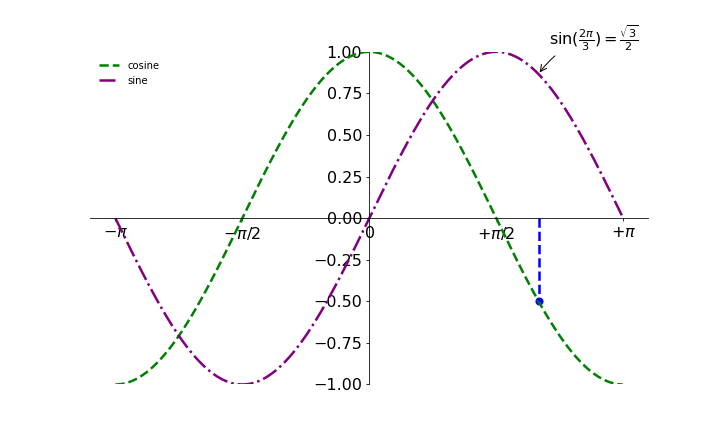
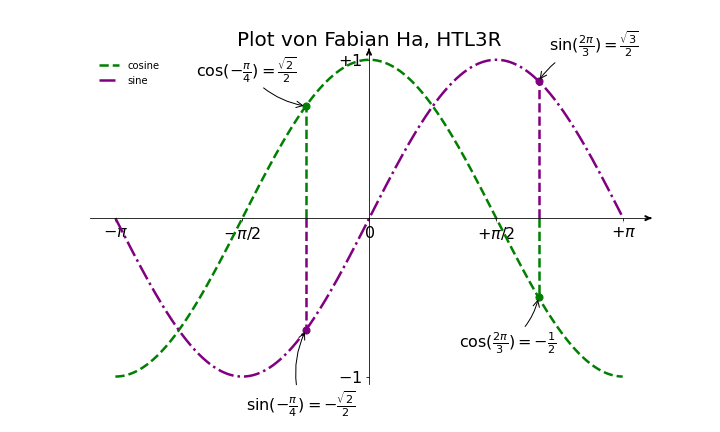
Aufgabe 1: Erzeugung des Plots

diff --git a/03_Plots/plot1.py b/03_Plots/plot1.py
@@ -5,20 +5,22 @@ import matplotlib.pyplot as plt
 
 PI = math.pi
 CNT = 1024
-X = sorted([ (-PI / (CNT / 2)) * i if i <= CNT / 2 else (PI / (CNT / 2)) * (CNT-i) for i in range(1024)])
-C = [ math.cos(x) for x in X ]
-S = [ math.sin(x) for x in X ]
+X = sorted([(-PI / (CNT / 2)) * i if i <= CNT / 2 else (PI / (CNT / 2)) * (CNT - i) for i in range(1024)])
+C = [math.cos(x) for x in X]
+S = [math.sin(x) for x in X]
 
 plt.plot(X, C)
 plt.plot(X, S)
 
-plt.figure(figsize=(10,6), dpi=80)
+plt.figure(figsize=(10, 6), dpi=80)
 plt.plot(X, C, color="green", linewidth=2.5, linestyle="--", label="cosine")
 plt.plot(X, S, color="purple", linewidth=2.5, linestyle="-.", label="sine")
 plt.xlim(min(X) * 1.1, max(X) * 1.1)
-plt.ylim(-1, 1)
-plt.xticks([-PI, -PI/2, 0, PI/2, PI],
-       [r'$-\pi$', r'$-\pi/2$', r'$0$', r'$+\pi/2$', r'$+\pi$'])
+plt.ylim(-1.05, 1.05)
+plt.xticks([-PI, -PI / 2, 0, PI / 2, PI],
+           [r'$-\pi$', r'$-\pi/2$', r'$0$', r'$+\pi/2$', r'$+\pi$'])
+plt.yticks([-1, 1],
+           [r'$-1$', r'$+1$'])
 plt.legend(loc='upper left', frameon=False)
 
 ax = plt.gca()
@@ -28,21 +30,55 @@ ax.xaxis.set_ticks_position('bottom')
 ax.spines['bottom'].set_position(('data', 0))
 ax.yaxis.set_ticks_position('left')
 ax.spines['left'].set_position(('data', 0))
+ax.annotate(
+    '', xy=(1.01, 0.5), xytext=(1, 0.5),
+    xycoords='axes fraction',
+    arrowprops=dict(arrowstyle='->', lw=2, color='k')
+)
+
+ax.annotate(
+    '', xy=(0.5, 1.01), xytext=(0.5, 1),
+    xycoords='axes fraction',
+    arrowprops=dict(arrowstyle='->', lw=2, color='k')
+)
 
 t = 2 * PI / 3
-plt.plot([t, t], [0, math.cos(t)], color='blue', linewidth=2.5, linestyle="--")
-plt.scatter([t, ], [math.cos(t), ], 50, color='blue')
+plt.plot([t, t], [0, math.cos(t)], color='green', linewidth=2.5, linestyle="--")
+plt.scatter([t, ], [math.cos(t), ], 50, color='green')
+plt.annotate(r'$\cos(\frac{2\pi}{3})=-\frac{1}{2}$',
+             xy=(t, math.cos(t)), xycoords='data',
+             xytext=(-80, -50), textcoords='offset points', fontsize=16,
+             arrowprops=dict(arrowstyle="->", connectionstyle="arc3,rad=.2"))
 
+plt.plot([t, t], [0, math.sin(t)], color='purple', linewidth=2.5, linestyle="--")
+plt.scatter([t, ], [math.sin(t), ], 50, color='purple')
 plt.annotate(r'$\sin(\frac{2\pi}{3})=\frac{\sqrt{3}}{2}$',
              xy=(t, math.sin(t)), xycoords='data',
              xytext=(+10, +30), textcoords='offset points', fontsize=16,
              arrowprops=dict(arrowstyle="->", connectionstyle="arc3,rad=.2"))
 
+t = -PI / 4
+plt.plot([t, t], [0, math.cos(t)], color='green', linewidth=2.5, linestyle="--")
+plt.scatter([t], [math.cos(t)], 50, color='green')
+plt.annotate(r'$\cos(-\frac{\pi}{4})=\frac{\sqrt{2}}{2}$',
+             xy=(t, math.cos(t)), xycoords='data',
+             xytext=(-110, +30), textcoords='offset points', fontsize=16,
+             arrowprops=dict(arrowstyle="->", connectionstyle="arc3,rad=.2"))
+
+plt.plot([t, t], [0, math.sin(t)], color='purple', linewidth=2.5, linestyle="--")
+plt.scatter([t], [math.sin(t)], 50, color='purple')
+plt.annotate(r'$\sin(-\frac{\pi}{4})=-\frac{\sqrt{2}}{2}$',
+             xy=(t, math.sin(t)), xycoords='data',
+             xytext=(-60, -80), textcoords='offset points', fontsize=16,
+             arrowprops=dict(arrowstyle="->", connectionstyle="arc3,rad=-.2"))
+
 for label in ax.get_xticklabels() + ax.get_yticklabels():
     label.set_fontsize(16)
-    label.set_bbox(dict(facecolor='white', edgecolor='None', alpha=0.65 ))
+    label.set_bbox(dict(facecolor='white', edgecolor='None', alpha=0.65))
 
 ax.set_axisbelow(True)
+
+plt.title("Plot von Fabian Ha, HTL3R", fontsize=20)
 
 plt.savefig("plot1_ha.png", dpi=72)
 
